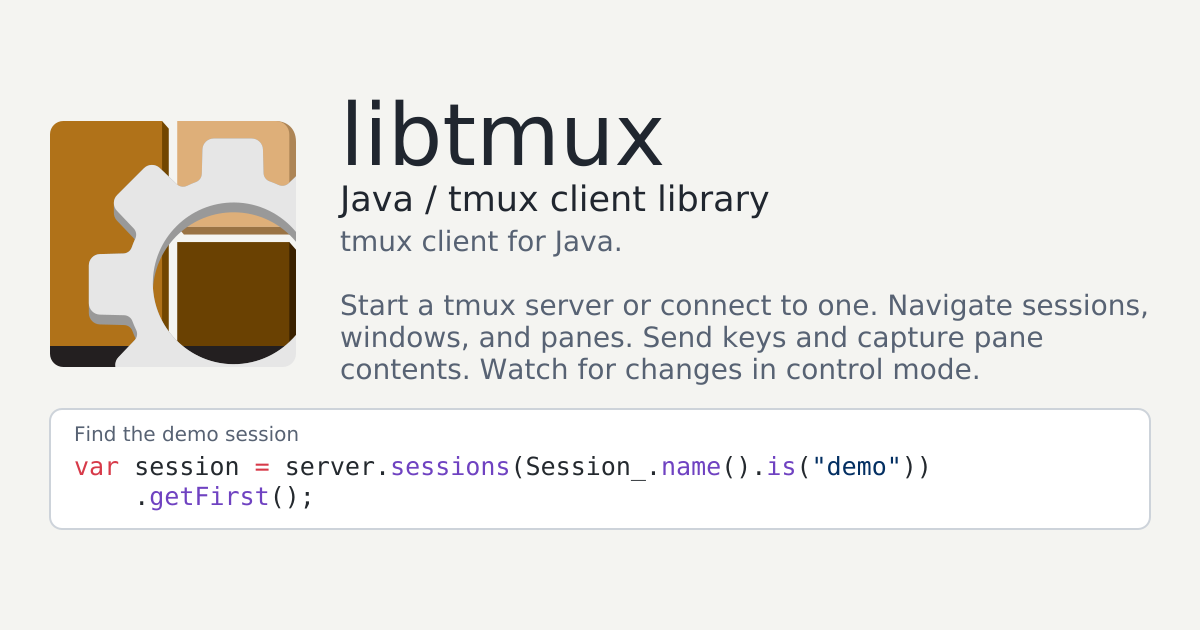
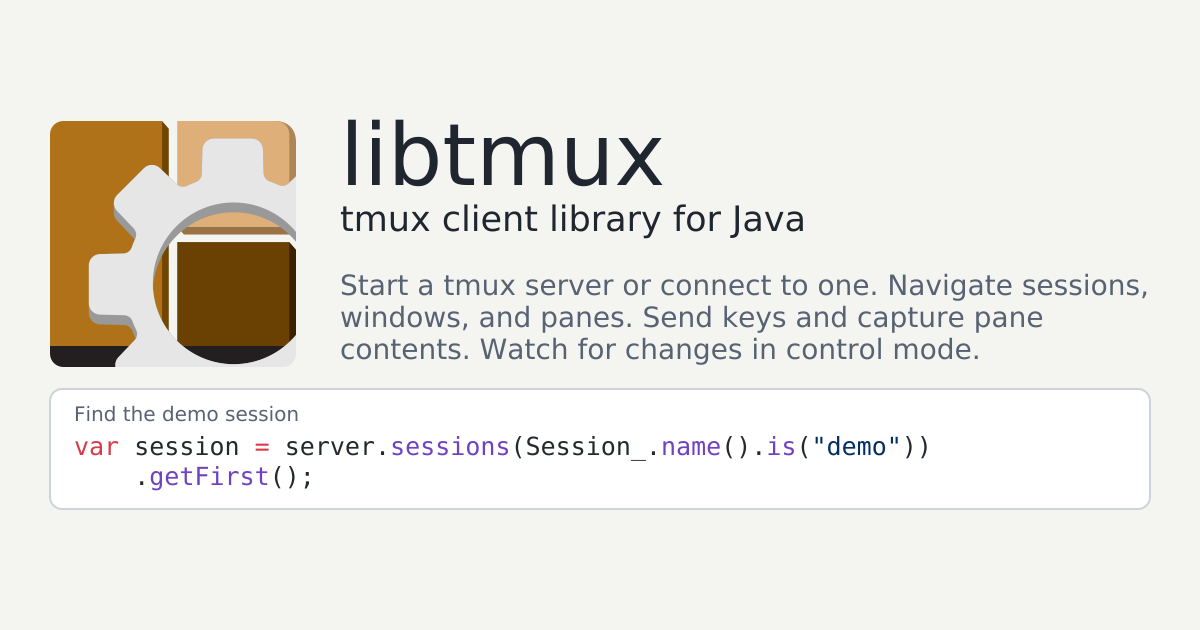
Docs(brand): Simplify the library card subtitle
why: Naming the language twice takes space from the feature description.

what:
- Refresh the sharing artwork and its source revision

Changed region(s): [[0.0308, 0.1508, 0.9558, 0.8444], [0.555, 0.6937, 0.7708, 0.754]]

diff --git a/assets/README.md b/assets/README.md
@@ -14,4 +14,4 @@ supports it. `.github/social-preview.png` is the cog sharing card, ready to
 upload under the repository's **Settings → Social preview**.
 
 The sharing card comes from `assets/java/library/opengraph-light.png`
-at kit revision `c9688d9db25e4c522ff1255d0f3badaf27d780dd`.
+at kit revision `4b86a9d9158d7c6d52cd635d59c92a04b48b960f`.
